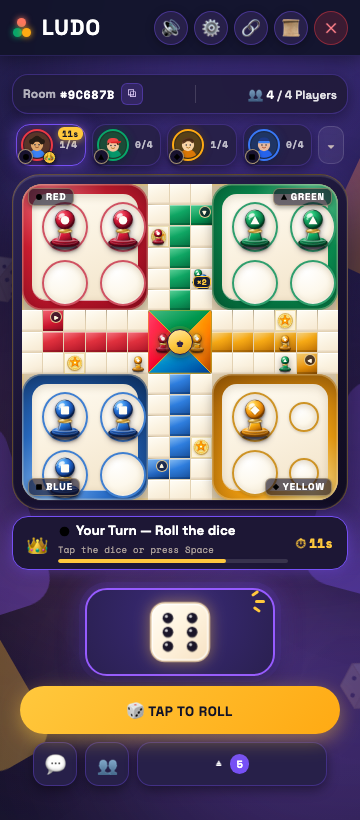
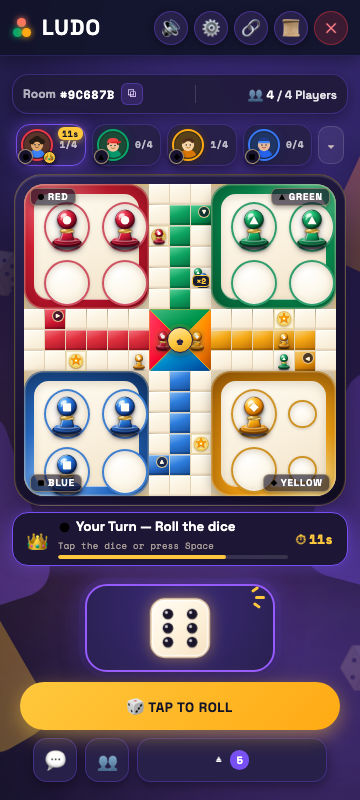
Fit the portrait match screen inside the mobile viewport
Lock the match screen to the dynamic viewport height and size the square board from the space the header, ribbon, status bar and dock leave, so phones no longer scroll ~40px past the fold. Short screens reclaim the room strip and compact the dice stage while keeping every dock target at least 44px.

Generated with Codebuff

diff --git a/ludo/apps/web/src/style.css b/ludo/apps/web/src/style.css
@@ -4817,3 +4817,105 @@ body {
 .board-v2-grid .base-socket-green { border-color: #2f9e6d; }
 .board-v2-grid .base-socket-yellow { border-color: #cd9326; }
 .board-v2-grid .base-socket-blue { border-color: #3f7fd0; }
+
+/* ==========================================================================
+   PORTRAIT MATCH VIEWPORT FIT
+   The match chrome (header, room bar, ribbon, status bar, dock) keeps its
+   fixed sizes; the square board is sized from whatever height remains, so the
+   page never scrolls past a phone viewport.
+   ========================================================================== */
+@media (orientation: portrait) and (max-width: 1023px) {
+  .game-screen-main {
+    height: 100vh;
+    height: 100dvh;
+    display: flex;
+    flex-direction: column;
+    overflow: hidden;
+  }
+
+  .game-screen-wrapper {
+    flex: 1 1 auto;
+    min-height: 0;
+    display: flex;
+    flex-direction: column;
+    padding-bottom: max(8px, env(safe-area-inset-bottom, 0px));
+  }
+
+  .game-screen-main .game-main-stage {
+    flex: 1 1 auto;
+    min-height: 0;
+    width: 100%;
+  }
+
+  .game-screen-main .board-column {
+    flex: 1 1 auto;
+    min-height: 0;
+    width: 100%;
+  }
+
+  .game-screen-main .game-board-container {
+    flex: 1 1 auto;
+    min-height: 0;
+    width: 100%;
+    container-type: size;
+  }
+
+  .game-screen-main .ludo-arena-container {
+    width: min(100cqw, 100cqh);
+    max-width: min(520px, 100cqw);
+    flex: 0 0 auto;
+  }
+
+  .game-screen-main .board-under-rail {
+    flex: 0 0 auto;
+  }
+
+  .game-screen-main .reconnect-floating-banner {
+    position: fixed;
+    top: calc(var(--header-height) + max(6px, var(--safe-top)));
+    left: 50%;
+    right: auto;
+    transform: translateX(-50%);
+    margin: 0;
+    z-index: 9800;
+  }
+}
+
+/* Short portrait phones: reclaim chrome height so the board still gets room.
+   The room strip moves to the header's Share sheet; touch targets stay >=44px. */
+@media (orientation: portrait) and (max-width: 1023px) and (max-height: 740px) {
+  .game-screen-wrapper > .room-info-bar-container {
+    display: none;
+  }
+
+  .game-screen-wrapper {
+    padding-top: 2px;
+    padding-bottom: max(6px, env(safe-area-inset-bottom, 0px));
+  }
+
+  .game-main-stage {
+    gap: 8px;
+  }
+
+  .mobile-bottom-dock .dock-center-stage {
+    gap: 6px;
+  }
+
+  .mobile-bottom-dock .master-dice-elevated-mound {
+    max-width: 168px;
+    padding: 6px 10px;
+  }
+
+  .mobile-bottom-dock .master-tactile-dice-btn svg {
+    width: 48px;
+    height: 48px;
+  }
+
+  .mobile-bottom-dock .mobile-prominent-roll-btn {
+    min-height: 44px;
+  }
+
+  .mobile-bottom-dock.mobile-bottom-dock {
+    gap: 8px;
+  }
+}
